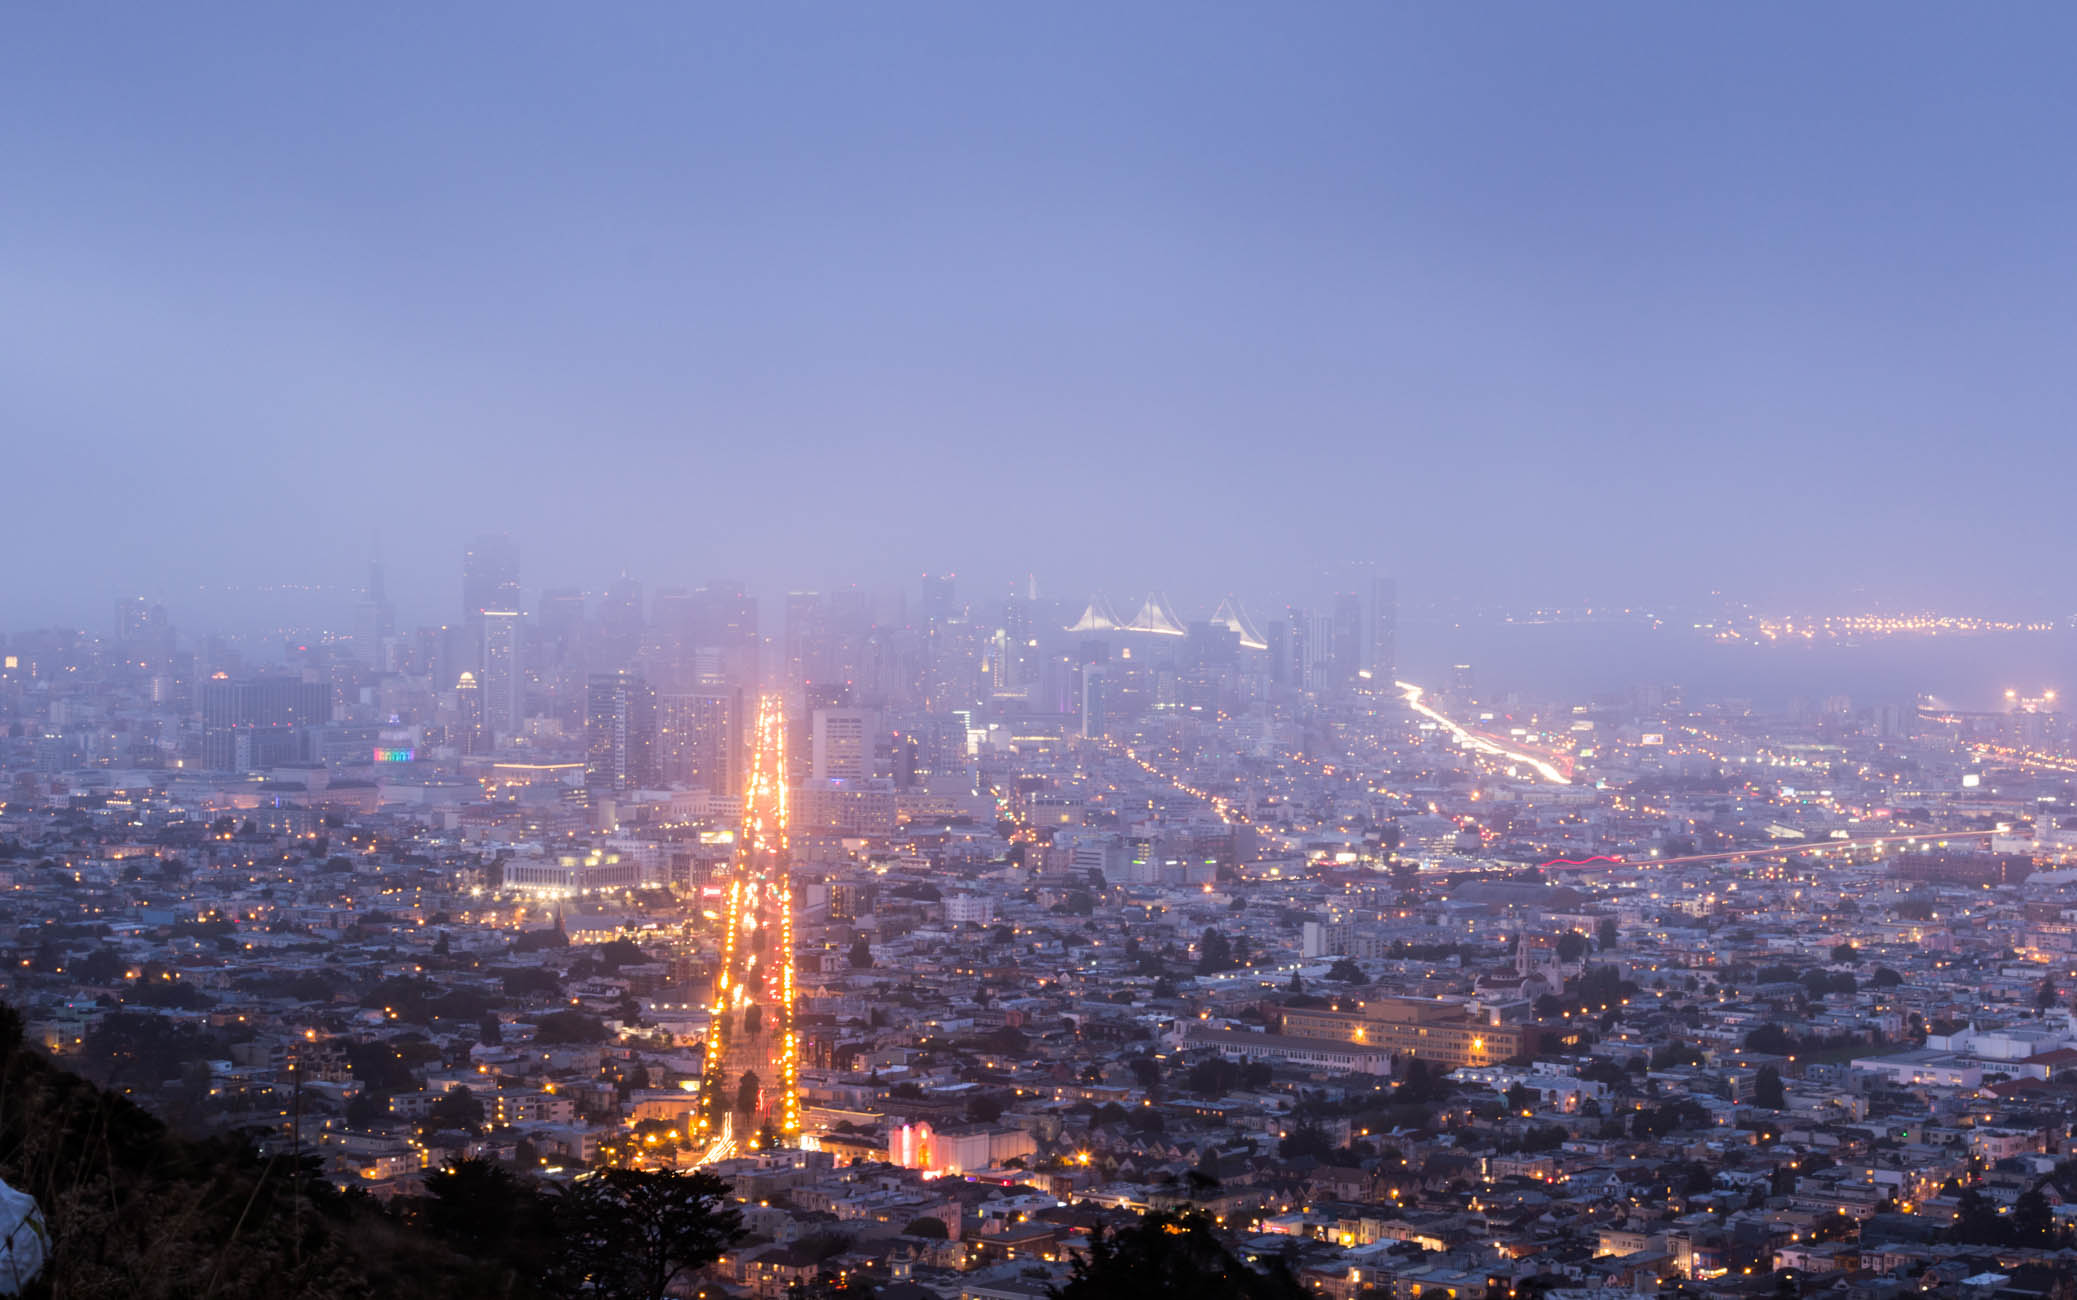
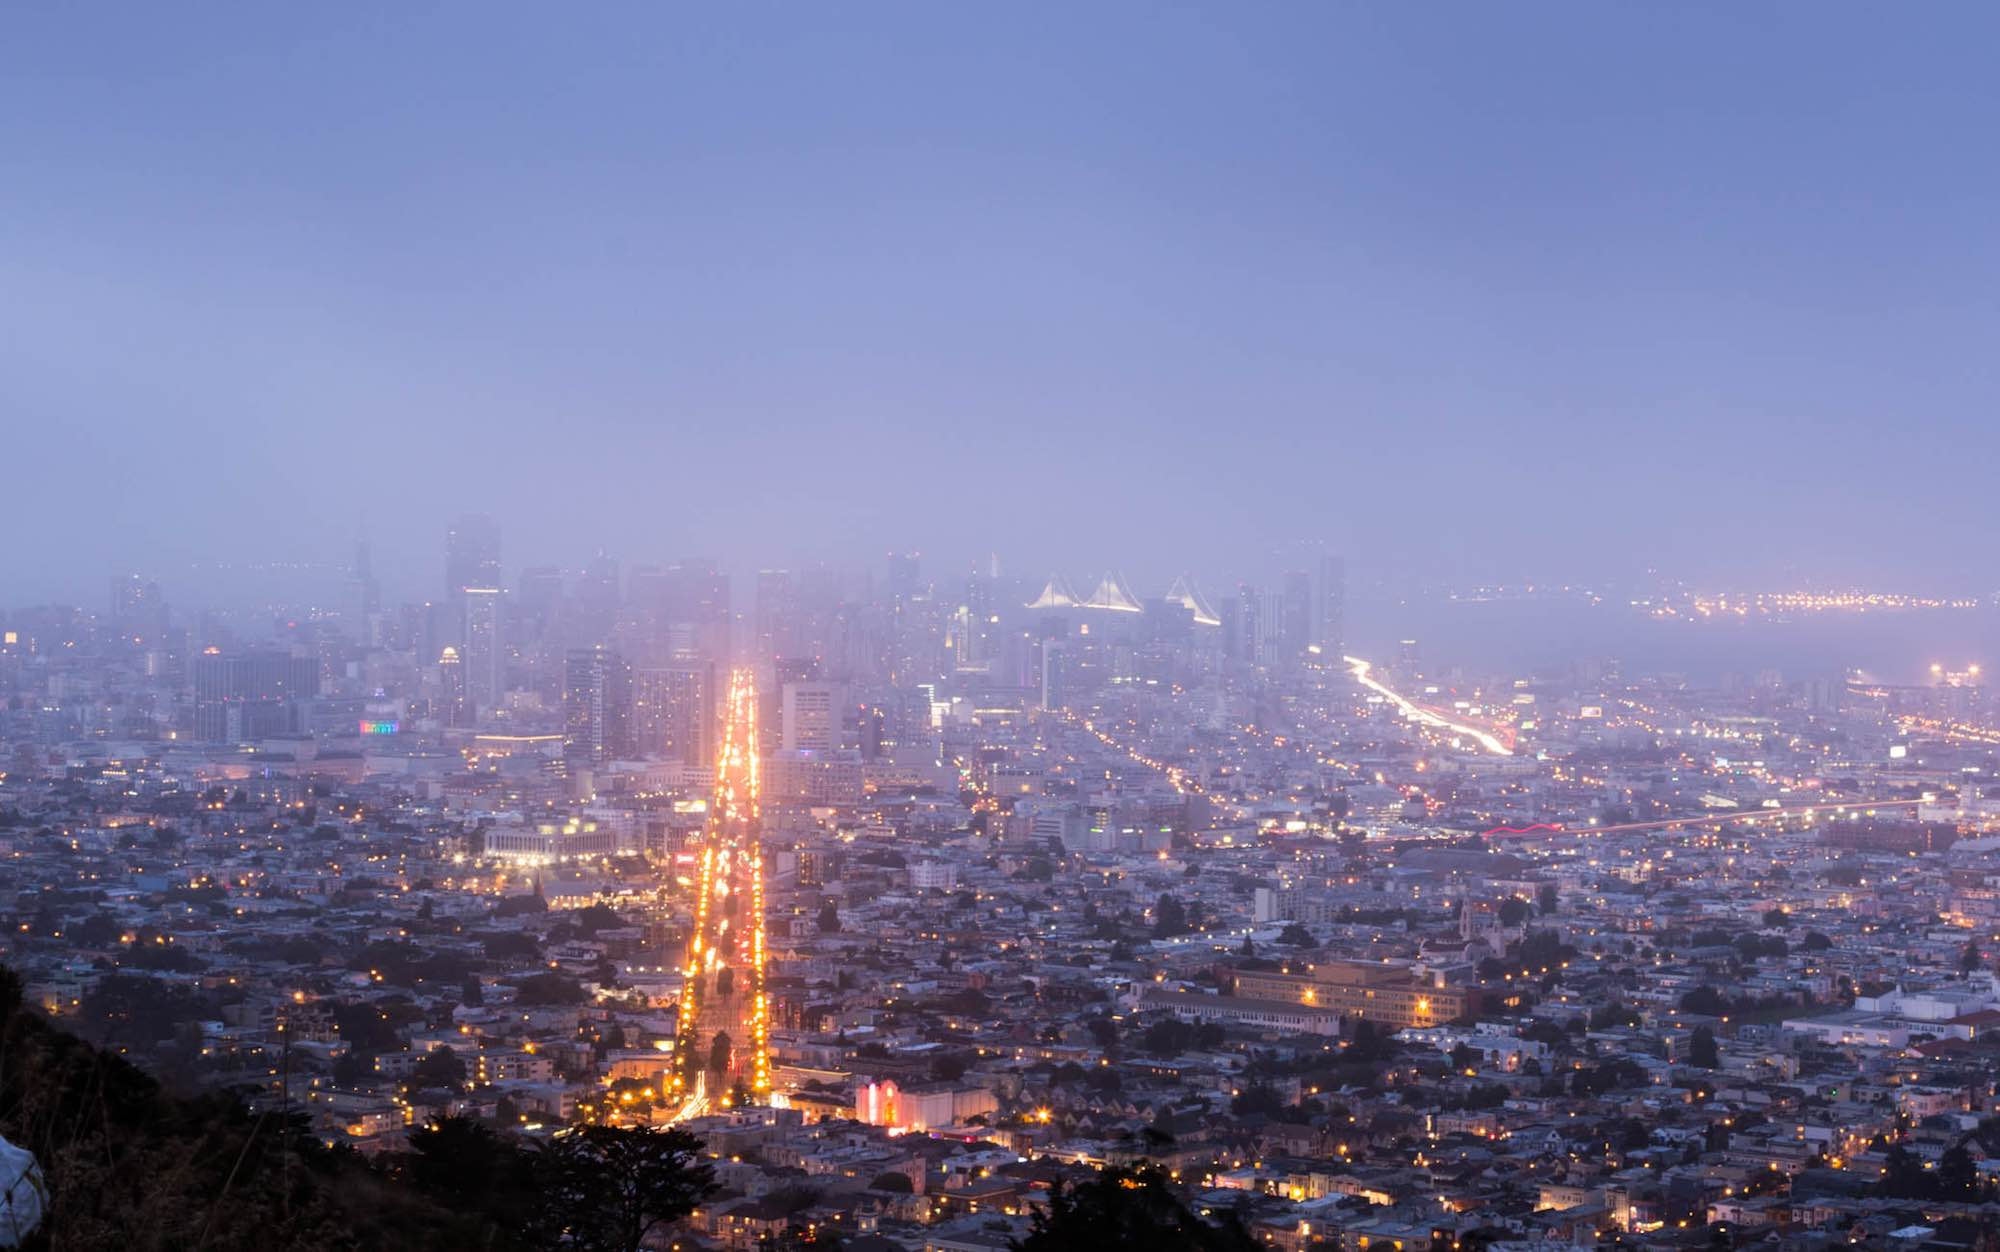
Improved readability, smaller file size
Increased text opacity and size, made background image smaller

diff --git a/index.html b/index.html
@@ -24,7 +24,7 @@
     </div>
   </div>
   <div class="row">
-    <div class="col-md-12 col-xs-12 fade-in">
+    <div class="col-md-12 col-xs-12 bio fade-in">
       <p>I love photography, cooking, travel, and learning through building projects.</p>
       <p>Currently seeking full-time Software Engineering roles.</p>
     </div>

diff --git a/css/benjdj6.css b/css/benjdj6.css
@@ -74,7 +74,11 @@ body {
 
 h1, h3, p {
     font-family: 'Lato', sans-serif;
-    opacity: 0.8;
+    opacity: 0.9;
+}
+
+.bio {
+    font-size: 12pt;
 }
 
 .fade-in {
